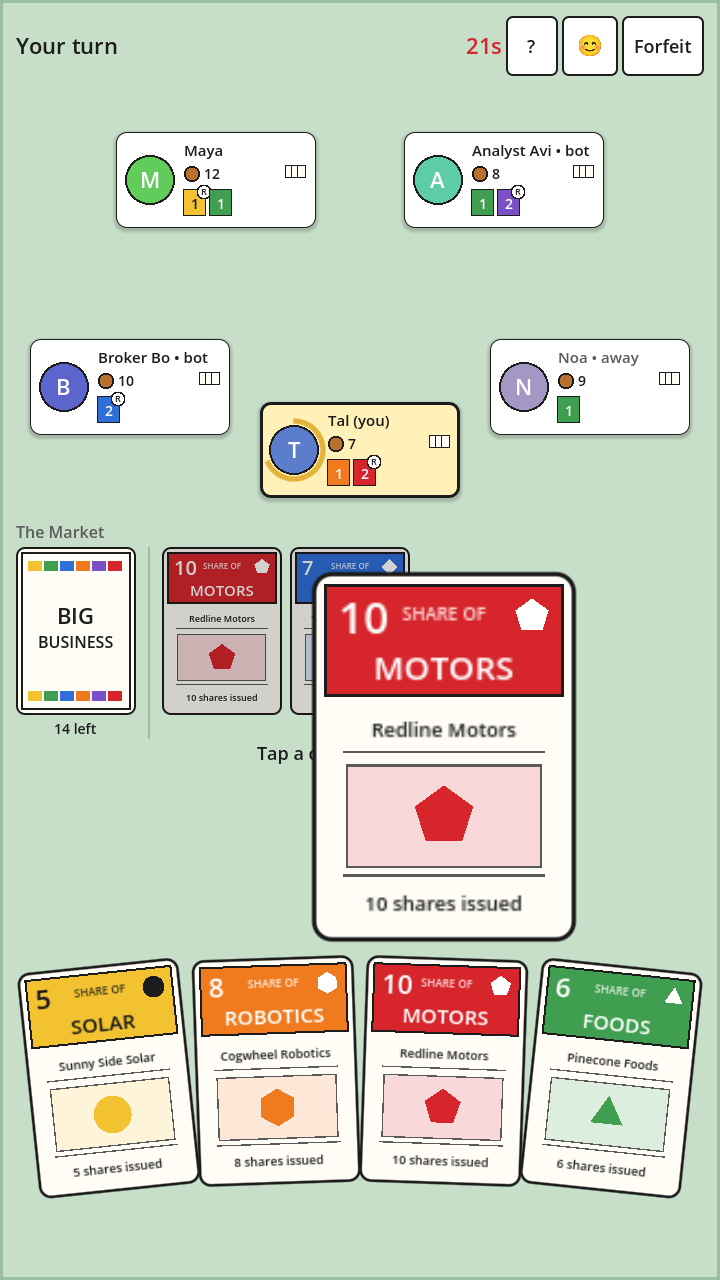
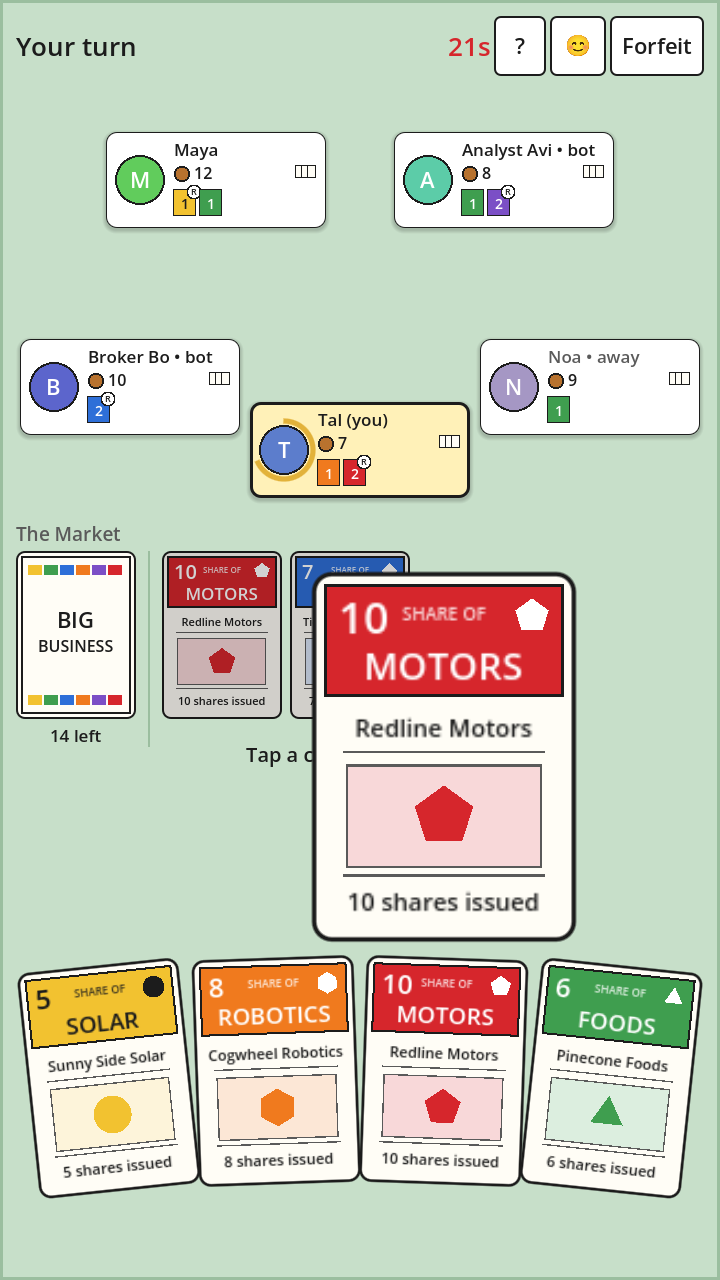
Client: pin layout left to right, enlarge UI text
On a Hebrew-locale device Godot mirrored the table: the supply pile moved
to the right and the hand fan rendered off screen. Pin the root layout
direction to left to right, since the app ships no translations.

Raise UI font sizes about 20% (theme labels 19, buttons and inputs 22,
card and seat text), widen seat cards to 220 px so names fit, and
re-render docs/screenshots. Record as D8; tick task A in TODO-local.

diff --git a/docs/TODO-local.md b/docs/TODO-local.md
@@ -6,11 +6,11 @@ Tick items off as they are done.
 
 ## A. First run on your machine
 
-- [ ] Install Godot 4.6 and Docker Desktop. Node 22 for the server.
-- [ ] `cd server && npm install && npm run check && docker compose up`. Open http://127.0.0.1:7351 (admin / password) and confirm the "Big Business runtime loaded" log line.
+- [x] Install Godot 4.6 and Docker Desktop. Node 22 for the server. (Local: Godot 4.6.3 in ~/Applications; Node 26 also passes.)
+- [x] `cd server && npm install && npm run check && docker compose up`. Open http://127.0.0.1:7351 (admin / password) and confirm the "Big Business runtime loaded" log line. (Local: 104/104, runtime loaded, console up.)
 - [ ] Open `client/` in Godot, press Play. The lobby auto-connects to 127.0.0.1. Press "Play now", wait 20 seconds, and play a full game against bots.
 - [ ] Run two Godot instances (Debug > Run Multiple Instances) and try a private room: create in one, join by code in the other, both press "I'm ready".
-- [ ] Run `node e2e/play.mjs` in `server/` and `godot --headless --path client --script res://tests/e2e_client.gd` to confirm the automated checks pass on your machine too.
+- [x] Run `node e2e/play.mjs` in `server/` and `godot --headless --path client --script res://tests/e2e_client.gd` to confirm the automated checks pass on your machine too. (Local: all pass; smoke.gd failed under a Hebrew macOS locale until the layout was pinned left to right, see D8.)
 
 ## B. Play it on a phone (the Phase 1 goal)
 

diff --git a/docs/decisions.md b/docs/decisions.md
@@ -47,3 +47,9 @@ Decisions made by the project owner on 2026-09-27, after the research in `docs/r
 - `docs/` research, design and decisions.
 - `server/` Nakama TypeScript runtime: pure rules engine in `server/src/engine`, match handler in `server/src/match`.
 - `client/` Godot 4.6 project.
+
+## D8. Left-to-right layout, larger type (2026-10-02)
+
+- **Decision:** the client always lays out left to right (`internationalization/rendering/root_node_layout_direction=1`), and UI text is about 20% larger than the first pass (labels 19 px, buttons and inputs 22 px on the 720 px canvas; seat cards widened to 220 px).
+- **Why:** on the owner's first local run (macOS in Hebrew) Godot mirrored the whole table: the supply pile jumped to the right and the hand fan rendered off screen. The app has no translations, so the locale should not flip the layout. Text was also too small on a phone.
+- **Implies:** if Hebrew or Arabic translations ever ship, right-to-left support is a deliberate project: the table's absolute positions (`_hand_slot`, seat slots) assume left to right. New UI uses the larger sizes as the floor.
